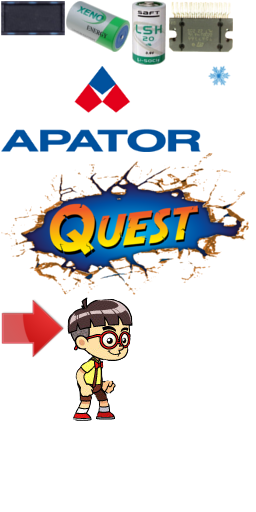
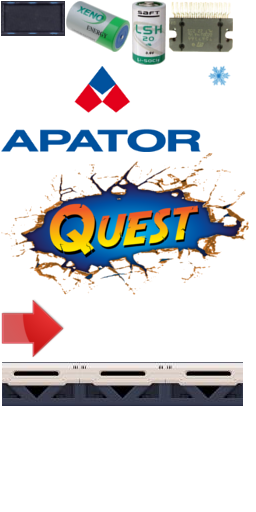
background + ground

diff --git a/ApatorQuest/src/assetLoader.js b/ApatorQuest/src/assetLoader.js
@@ -9,6 +9,8 @@ var gameTextures = {
     menuBackgroundTexture: undefined,
     arrowTexture: undefined,
     playerTexture: undefined,
+    parallaxTexture: undefined,
+    groundTexture: undefined,
 };
 var textureFrames = {
     floorFrame: new PIXI.Rectangle(2, 2, 62, 33),
@@ -16,7 +18,7 @@ var textureFrames = {
     saftFrame: new PIXI.Rectangle(132, 1, 34, 64),
     spikeFrame: new PIXI.Rectangle(168, 1, 66, 52),
     arrowFrame: new PIXI.Rectangle(1, 296, 64, 64),
-    playerFrame: new PIXI.Rectangle(66, 296, 68, 125),
+    groundFrame: new PIXI.Rectangle(2, 362, 241, 44),
 };
 
 function getTextureFromFrame(newTexture, newFrame) {
@@ -38,7 +40,10 @@ function loadingDone() {
     gameTextures.saftTexture = getTextureFromFrame(atlasTexture, textureFrames.saftFrame);
     gameTextures.spikeTexture = getTextureFromFrame(atlasTexture, textureFrames.spikeFrame);
     gameTextures.arrowTexture = getTextureFromFrame(atlasTexture, textureFrames.arrowFrame);
+    gameTextures.groundTexture = getTextureFromFrame(atlasTexture, textureFrames.groundFrame);
+
     gameTextures.playerTexture = loader.resources[texturesToLoad[3]].texture;
+    gameTextures.parallaxTexture = loader.resources[texturesToLoad[4]].texture;
 
     isLoadingDone = true;
 

diff --git a/ApatorQuest/src/gameObjects/background.js b/ApatorQuest/src/gameObjects/background.js
@@ -1,9 +1,22 @@
 function BackgroundClass() {
-    this.sprite = new PIXI.extras.TilingSprite(gameTextures.backgroundTexture, renderer.width, renderer.height);
+    this.container = new PIXI.Container();
+    this.backgroundSprite = new PIXI.extras.TilingSprite(gameTextures.backgroundTexture, renderer.width, renderer.height);
+    this.container.addChild(this.backgroundSprite);
+
+    this.parallaxSprite = new PIXI.extras.TilingSprite(gameTextures.parallaxTexture, renderer.width, 452);
+    this.parallaxSprite.position.set(0, 122);
+    this.container.addChild(this.parallaxSprite);
+
+    this.groundSprite = new PIXI.extras.TilingSprite(gameTextures.groundTexture, renderer.width, 44);
+    this.groundSprite.position.set(0, 490);
+    this.container.addChild(this.groundSprite);
+
     this.position = new PIXI.Point();
     this.speed = 10;
 
     this.update = function (dt) {
-        this.sprite.tilePosition.x -= this.speed * dt;
+        this.backgroundSprite.tilePosition.x -= this.speed * dt;
+        this.parallaxSprite.tilePosition.x -= this.speed * 3 * dt;
+        this.groundSprite.tilePosition.x -= this.speed * 20 * dt;
     }
 }

diff --git a/ApatorQuest/src/gameObjects/player.js b/ApatorQuest/src/gameObjects/player.js
@@ -17,7 +17,7 @@ function PlayerClass() {
         new PIXI.Rectangle(435, 0, 87, 124),
     ];
     this.currentAnimFrame = 0;
-    this.animFps = 6;
+    this.animFps = 8;
     this.nextFrameTime = 0;
     this.texture.frame = this.animFrames[this.currentAnimFrame];
     this.sprite = new PIXI.Sprite(this.texture);
@@ -25,7 +25,8 @@ function PlayerClass() {
 
     this.update = function (dt) {
         this.velocity.x = 0;
-        if (this.position.y > 400) {
+        if (this.position.y > 367) {
+            this.position.y = 367;
             this.isGrounded = true;
             this.velocity.y = 0;
         }

diff --git a/ApatorQuest/src/stages/running.js b/ApatorQuest/src/stages/running.js
@@ -39,7 +39,7 @@ function initAllRunningStageObjects() {
     runningStageDynamicObjects = [];
 
     var background = new BackgroundClass();
-    runningStage.addChild(background.sprite);
+    runningStage.addChild(background.container);
     runningStageDynamicObjects.push(background);
 
     player = new PlayerClass();

diff --git a/ApatorQuest/src/globals.js b/ApatorQuest/src/globals.js
@@ -13,7 +13,8 @@ var texturesToLoad = [
     'assets/gfx/background.png',
     'assets/gfx/objectsAtlas.png',
     'assets/gfx/mainMenuBackground.png',
-    'assets/gfx/player.png'
+    'assets/gfx/player.png',
+    'assets/gfx/parallax.png'
 ];
 
 var gameObjectPositions = {
